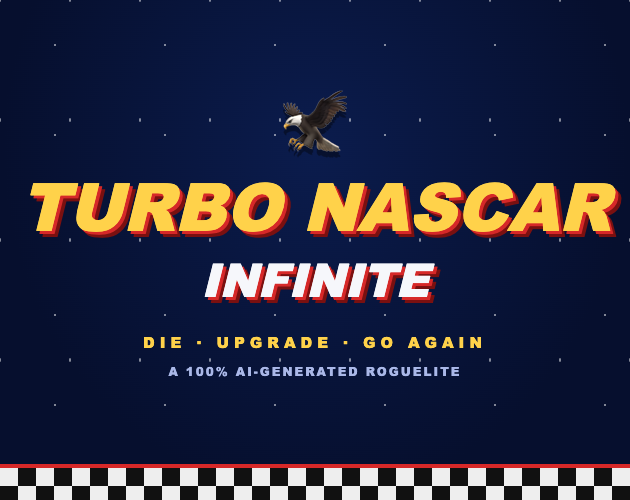
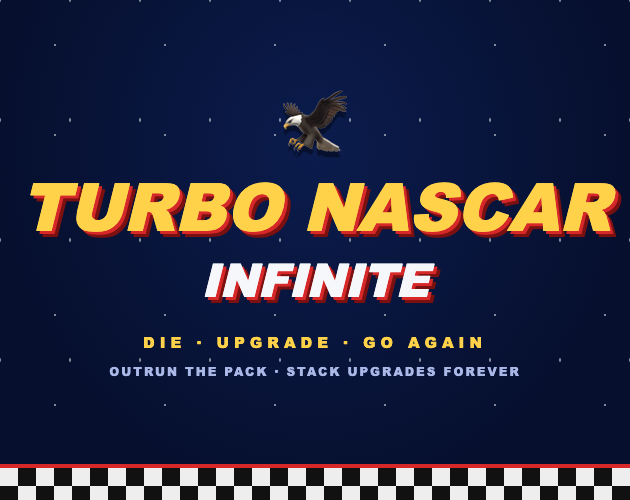
chore: remove AI-generated branding from README, itch copy and cover art

Changed region(s): [[0.1508, 0.72, 0.8444, 0.75]]

diff --git a/itch/src/cover.html b/itch/src/cover.html
@@ -19,7 +19,7 @@ body{width:630px;height:500px;overflow:hidden;background:radial-gradient(ellipse
   <div class="l1">TURBO NASCAR</div>
   <div class="l2">INFINITE</div>
   <div class="tag">DIE · UPGRADE · GO AGAIN</div>
-  <div class="sub">a 100% AI-generated roguelite</div>
+  <div class="sub">outrun the pack · stack upgrades forever</div>
 </div>
 <div class="check"></div>
 </body></html>

diff --git a/README.md b/README.md
@@ -1,12 +1,6 @@
 # 🦅 TURBO NASCAR INFINITE
 
-[![100% AI generated](https://img.shields.io/badge/100%25_AI_generated-Fable_5-d97757?logo=claude&logoColor=white)](https://claude.com/claude-code)
-
 **▶ PLAY IT: https://saintpepsi.github.io/turbo-nascar-infinite/**
-
-Every line here — the game, the physics, the balance bots, the chiptune transcriptions, this
-README — was written by Claude (Fable 5) running in Claude Code. Human input: the two-paragraph
-spec, a 9-minute deadline, and bug reports from playtesting.
 
 Single-file Three.js NASCAR roguelite. Outrun THE PACK behind you without overcooking the corners
 ahead of you. Die. Bank Freedom Points. Buy absurd upgrades. Go again, longer.
@@ -71,7 +65,7 @@ The idle contract is tested too: a bot handed **50,000 FP** of upgrades still di
 - **Luke** — AI Sherrif
 - **Nick** — AI Connosouir (first playtester; the turkeys were his idea)
 - **Ian** — gave the orders
-- **Claude (Fable 5)** — everything else
+- **Claude** — everything else
 
 ## Docs
 

diff --git a/itch/PAGE.md b/itch/PAGE.md
@@ -60,7 +60,7 @@ Die. Bank Freedom Points. Buy absurd upgrades. Go again, longer.
 
 ⌨️ Arrows drive · Q W E R T fire the Constitution · M mute · ESC pause
 
-100% AI generated by Claude (Fable 5) in Claude Code — source: https://github.com/SaintPepsi/turbo-nascar-infinite
+Source: https://github.com/SaintPepsi/turbo-nascar-infinite
 Also playable at: https://saintpepsi.github.io/turbo-nascar-infinite/
 
 ---